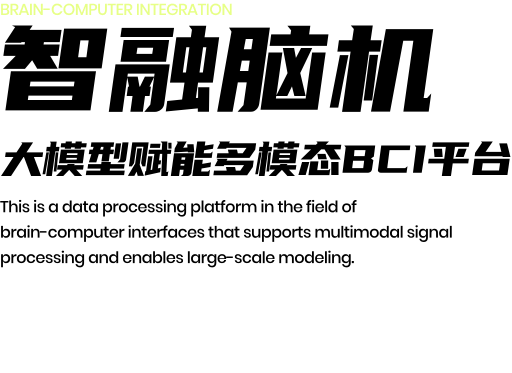
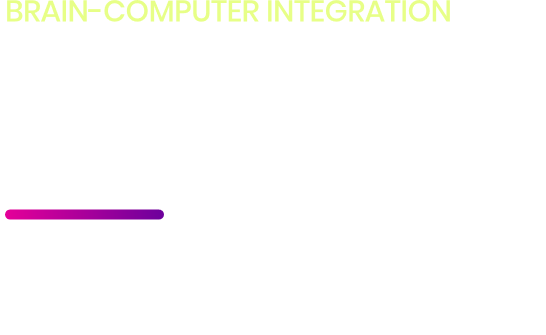
主界面4.0

Changed region(s): [[0.0, 0.0, 0.8438, 0.2985], [0.0, 0.5373, 0.9062, 0.7164], [0.0, 0.3582, 1.0, 0.4776]]

diff --git a/core/UI/main_UI.py b/core/UI/main_UI.py
@@ -97,7 +97,7 @@ class NeuroPioneerApp:
         line.pack(side="left", fill="y")
 
         lbl = tk.Label(tab_frame, text=display_name, bg=COLOR_TAB_INACTIVE, padx=15,
-                       font=("微软雅黑", 9), cursor="hand2")
+                       font=("微软雅黑", 16), cursor="hand2")
         lbl.pack(side="left", fill="y")
         lbl.bind("<Button-1>", lambda e, tid=tab_id: self.switch_to_tab(tid))
         lbl.bind("<Button-3>", lambda e, tid=tab_id: self.show_context_menu(e, tid))
@@ -167,21 +167,18 @@ class NeuroPioneerApp:
                 print(f"图片加载失败 {path}: {e}")
                 return None, None
 
-        # ① logo
-        add_image(LOGO_PATH, 56, 24)
+        #菜单栏（暂不绑定事件）
+        add_image(MENU_PATH, 280, 100)
 
-        # ② 菜单栏（暂不绑定事件）
-        add_image(MENU_PATH, 185, 31)
-
-        # ③ 文字介绍区域
-        add_image(CONTENT_PATH, 91, 250)
+        #文字介绍区域
+        add_image(CONTENT_PATH, 60, 330)
 
         # ④ 四个功能按钮（绑定打开对应标签页）
         button_info = [
-            (BUTTON1_PATH, 89, 557, "Preprocessing"),
-            (BUTTON2_PATH, 249, 557, "Extraction"),
-            (BUTTON3_PATH, 436, 557, "Analysis"),
-            (BUTTON4_PATH, 625, 557, "Visualization")
+            (BUTTON1_PATH, 60, 700, "Preprocessing"),
+            (BUTTON2_PATH, 400, 700, "Extraction"),
+            (BUTTON3_PATH, 60, 800, "Analysis"),
+            (BUTTON4_PATH, 400, 800, "Visualization")
         ]
         for path, x, y, name in button_info:
             _, item_id = add_image(path, x, y, tag=f"btn_{name}")
@@ -191,9 +188,6 @@ class NeuroPioneerApp:
                 # 鼠标悬停时改变光标样式
                 home_canvas.tag_bind(item_id, "<Enter>", lambda e: home_canvas.config(cursor="hand2"))
                 home_canvas.tag_bind(item_id, "<Leave>", lambda e: home_canvas.config(cursor=""))
-
-        # ⑤ 登录键（暂不绑定事件）
-        add_image(SIGNIN_PATH, 1274, 24)
 
         # 创建 Homepage 标签按钮（不可关闭）
         tab_btn = self.create_tab_widget("Homepage", tab_id="Homepage", can_close=False)
@@ -400,11 +394,11 @@ class NeuroPioneerApp:
         popup.geometry(f"180x200+{x}+{y}")
         popup.config(bg="white", highlightthickness=1, highlightbackground="#ccc")
 
-        tk.Label(popup, text="快速跳转", bg="#eee", font=("微软雅黑", 9, "bold")).pack(fill="x")
+        tk.Label(popup, text="快速跳转", bg="#eee", font=("微软雅黑", 12, "bold")).pack(fill="x")
 
         others = ["Preprocessing", "Extraction", "Analysis", "Visualization", "Settings"]
         for o in others:
-            lbl = tk.Label(popup, text=o, bg="white", pady=5, cursor="hand2")
+            lbl = tk.Label(popup, text=o, bg="white", font=("微软雅黑", 12, "bold"), pady=5, cursor="hand2")
             lbl.pack(fill="x")
             lbl.bind("<Button-1>", lambda e, name=o: [self.open_functional_tab(name), popup.destroy()])
             lbl.bind("<Enter>", lambda e: e.widget.config(bg="#f0f0f0"))
